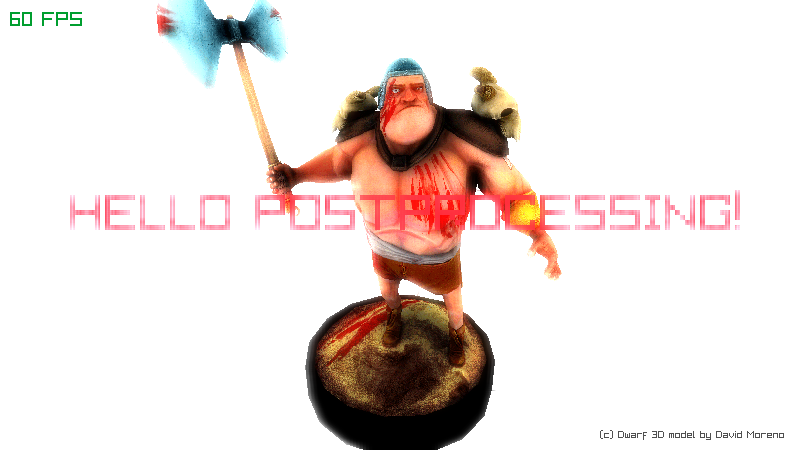
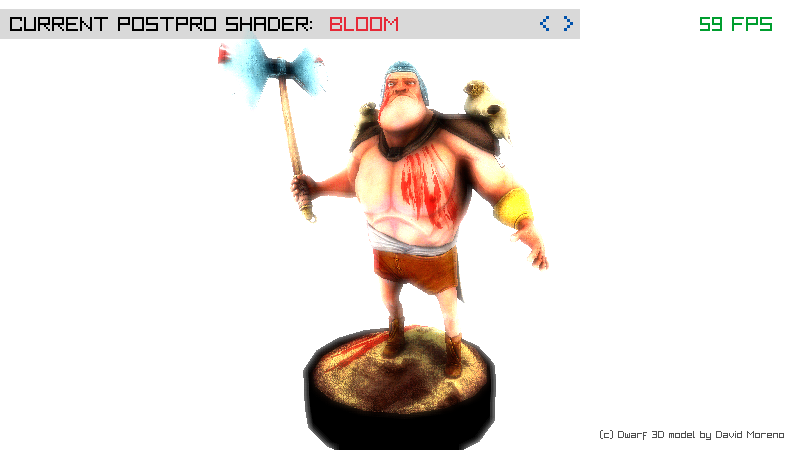
Some reviews for RPI

Changed region(s): [[0.0, 0.0, 0.9375, 1.0], [0.875, 0.0311, 0.9688, 0.0933]]

diff --git a/docs/examples/src/shaders/shaders_postprocessing.c b/docs/examples/src/shaders/shaders_postprocessing.c
@@ -18,6 +18,48 @@
 
 #include "raylib.h"
 
+#if defined(PLATFORM_DESKTOP)
+    #define GLSL_VERSION            330
+    #define DEFAULT_VERTEX_SHADER   "resources/shaders/glsl330/base.vs"
+#else   // PLATFORM_RPI, PLATFORM_ANDROID, PLATFORM_WEB
+    #define GLSL_VERSION            100
+    #define DEFAULT_VERTEX_SHADER   "resources/shaders/glsl100/base.vs"
+#endif
+
+#define MAX_POSTPRO_SHADERS         12
+
+typedef enum {
+    FX_GRAYSCALE = 0,
+    FX_POSTERIZATION,
+    FX_DREAM_VISION,
+    FX_PIXELIZER,
+    FX_CROSS_HATCHING,
+    FX_CROSS_STITCHING,
+    FX_PREDATOR_VIEW,
+    FX_SCANLINES,
+    FX_FISHEYE,
+    FX_SOBEL,
+    FX_BLOOM,
+    FX_BLUR,
+    //FX_FXAA
+} PostproShader;
+
+static const char *postproShaderText[] = {
+    "GRAYSCALE",
+    "POSTERIZATION",
+    "DREAM_VISION",
+    "PIXELIZER",
+    "CROSS_HATCHING",
+    "CROSS_STITCHING",
+    "PREDATOR_VIEW",
+    "SCANLINES",
+    "FISHEYE",
+    "SOBEL",
+    "BLOOM",
+    "BLUR",
+    //"FXAA"
+};
+
 int main()
 {
     // Initialization
@@ -38,8 +80,25 @@ int main()
 
     Vector3 position = { 0.0f, 0.0f, 0.0f };                                // Set model position
     
-    Shader shader = LoadShader("resources/shaders/glsl330/base.vs", 
-                               "resources/shaders/glsl330/bloom.fs");       // Load postpro shader
+    // Load all postpro shaders
+    // NOTE 1: All postpro shader use the base vertex shader (DEFAULT_VERTEX_SHADER)
+    // NOTE 2: We load the correct shader depending on GLSL version
+    Shader shaders[MAX_POSTPRO_SHADERS];
+    
+    shaders[FX_GRAYSCALE] = LoadShader(DEFAULT_VERTEX_SHADER, FormatText("resources/shaders/glsl%i/grayscale.fs", GLSL_VERSION));
+    shaders[FX_POSTERIZATION] = LoadShader(DEFAULT_VERTEX_SHADER, FormatText("resources/shaders/glsl%i/posterization.fs", GLSL_VERSION));
+    shaders[FX_DREAM_VISION] = LoadShader(DEFAULT_VERTEX_SHADER, FormatText("resources/shaders/glsl%i/dream_vision.fs", GLSL_VERSION));
+    shaders[FX_PIXELIZER] = LoadShader(DEFAULT_VERTEX_SHADER, FormatText("resources/shaders/glsl%i/pixelizer.fs", GLSL_VERSION));
+    shaders[FX_CROSS_HATCHING] = LoadShader(DEFAULT_VERTEX_SHADER, FormatText("resources/shaders/glsl%i/cross_hatching.fs", GLSL_VERSION));
+    shaders[FX_CROSS_STITCHING] = LoadShader(DEFAULT_VERTEX_SHADER, FormatText("resources/shaders/glsl%i/cross_stitching.fs", GLSL_VERSION));
+    shaders[FX_PREDATOR_VIEW] = LoadShader(DEFAULT_VERTEX_SHADER, FormatText("resources/shaders/glsl%i/predator.fs", GLSL_VERSION));
+    shaders[FX_SCANLINES] = LoadShader(DEFAULT_VERTEX_SHADER, FormatText("resources/shaders/glsl%i/scanlines.fs", GLSL_VERSION));
+    shaders[FX_FISHEYE] = LoadShader(DEFAULT_VERTEX_SHADER, FormatText("resources/shaders/glsl%i/fisheye.fs", GLSL_VERSION));
+    shaders[FX_SOBEL] = LoadShader(DEFAULT_VERTEX_SHADER, FormatText("resources/shaders/glsl%i/sobel.fs", GLSL_VERSION));
+    shaders[FX_BLOOM] = LoadShader(DEFAULT_VERTEX_SHADER, FormatText("resources/shaders/glsl%i/bloom.fs", GLSL_VERSION));
+    shaders[FX_BLUR] = LoadShader(DEFAULT_VERTEX_SHADER, FormatText("resources/shaders/glsl%i/blur.fs", GLSL_VERSION));
+    
+    int currentShader = FX_GRAYSCALE;
 
     // Create a RenderTexture2D to be used for render to texture
     RenderTexture2D target = LoadRenderTexture(screenWidth, screenHeight);
@@ -56,6 +115,12 @@ int main()
         // Update
         //----------------------------------------------------------------------------------
         UpdateCamera(&camera);              // Update camera
+        
+        if (IsKeyPressed(KEY_RIGHT)) currentShader++;
+        else if (IsKeyPressed(KEY_LEFT)) currentShader--;
+        
+        if (currentShader >= MAX_POSTPRO_SHADERS) currentShader = 0;
+        else if (currentShader < 0) currentShader = MAX_POSTPRO_SHADERS - 1;
         //----------------------------------------------------------------------------------
 
         // Draw
@@ -73,21 +138,26 @@ int main()
                     DrawGrid(10, 1.0f);     // Draw a grid
 
                 End3dMode();
-          
-                DrawText("HELLO POSTPROCESSING!", 70, 190, 50, RED);
                 
             EndTextureMode();           // End drawing to texture (now we have a texture available for next passes)
             
-            BeginShaderMode(shader);
+            // Render previously generated texture using selected postpro shader
+            BeginShaderMode(shaders[currentShader]);
             
                 // NOTE: Render texture must be y-flipped due to default OpenGL coordinates (left-bottom)
                 DrawTextureRec(target.texture, (Rectangle){ 0, 0, target.texture.width, -target.texture.height }, (Vector2){ 0, 0 }, WHITE);
                 
             EndShaderMode();
             
+            DrawRectangle(0, 9, 580, 30, Fade(LIGHTGRAY, 0.7f));
+            
             DrawText("(c) Dwarf 3D model by David Moreno", screenWidth - 200, screenHeight - 20, 10, DARKGRAY);
-
-            DrawFPS(10, 10);
+            
+            DrawText("CURRENT POSTPRO SHADER:", 10, 15, 20, BLACK);
+            DrawText(postproShaderText[currentShader], 330, 15, 20, RED);
+            DrawText("< >", 540, 10, 30, DARKBLUE);
+            
+            DrawFPS(700, 15);
 
         EndDrawing();
         //----------------------------------------------------------------------------------
@@ -95,7 +165,10 @@ int main()
 
     // De-Initialization
     //--------------------------------------------------------------------------------------
-    UnloadShader(shader);           // Unload shader
+    
+    // Unload all postpro shaders
+    for (int i = 0; i < MAX_POSTPRO_SHADERS; i++) UnloadShader(shaders[i]);
+    
     UnloadTexture(texture);         // Unload texture
     UnloadModel(dwarf);             // Unload model
     UnloadRenderTexture(target);    // Unload render texture

diff --git a/examples/models/models_mesh_picking.c b/examples/models/models_mesh_picking.c
@@ -89,7 +89,7 @@ int main()
             cursorColor = PURPLE;
             hitObjectName = "Triangle";
 
-            bary = VectorBarycenter(nearestHit.hitPosition, ta, tb, tc);
+            bary = VectorBarycenter(nearestHit.position, ta, tb, tc);
             hitTriangle = true;
         } 
         else hitTriangle = false;
@@ -136,15 +136,15 @@ int main()
                 // If we hit something, draw the cursor at the hit point
                 if (nearestHit.hit) 
                 {
-                    DrawCube(nearestHit.hitPosition, 0.3, 0.3, 0.3, cursorColor);
-                    DrawCubeWires(nearestHit.hitPosition, 0.3, 0.3, 0.3, RED);
+                    DrawCube(nearestHit.position, 0.3, 0.3, 0.3, cursorColor);
+                    DrawCubeWires(nearestHit.position, 0.3, 0.3, 0.3, RED);
 
                     Vector3 normalEnd;
-                    normalEnd.x = nearestHit.hitPosition.x + nearestHit.hitNormal.x;
-                    normalEnd.y = nearestHit.hitPosition.y + nearestHit.hitNormal.y;
-                    normalEnd.z = nearestHit.hitPosition.z + nearestHit.hitNormal.z;
+                    normalEnd.x = nearestHit.position.x + nearestHit.normal.x;
+                    normalEnd.y = nearestHit.position.y + nearestHit.normal.y;
+                    normalEnd.z = nearestHit.position.z + nearestHit.normal.z;
                     
-                    DrawLine3D(nearestHit.hitPosition, normalEnd, RED);
+                    DrawLine3D(nearestHit.position, normalEnd, RED);
                 }
 
                 DrawRay(ray, MAROON);
@@ -163,14 +163,14 @@ int main()
                 DrawText(FormatText("Distance: %3.2f", nearestHit.distance), 10, ypos, 10, BLACK);
                 
                 DrawText(FormatText("Hit Pos: %3.2f %3.2f %3.2f", 
-                                    nearestHit.hitPosition.x, 
-                                    nearestHit.hitPosition.y, 
-                                    nearestHit.hitPosition.z), 10, ypos + 15, 10, BLACK);
+                                    nearestHit.position.x, 
+                                    nearestHit.position.y, 
+                                    nearestHit.position.z), 10, ypos + 15, 10, BLACK);
                                     
                 DrawText(FormatText("Hit Norm: %3.2f %3.2f %3.2f", 
-                                    nearestHit.hitNormal.x, 
-                                    nearestHit.hitNormal.y, 
-                                    nearestHit.hitNormal.z), 10, ypos + 30, 10, BLACK);
+                                    nearestHit.normal.x, 
+                                    nearestHit.normal.y, 
+                                    nearestHit.normal.z), 10, ypos + 30, 10, BLACK);
 
                 if (hitTriangle) DrawText(FormatText("Barycenter: %3.2f %3.2f %3.2f",  bary.x, bary.y, bary.z), 10, ypos + 45, 10, BLACK);
             }

diff --git a/examples/text/text_ttf_loading.c b/examples/text/text_ttf_loading.c
@@ -38,8 +38,11 @@ int main()
     SetTextureFilter(font.texture, FILTER_POINT);
     int currentFontFilter = 0;      // FILTER_POINT
     
+    // NOTE: Drag and drop support only available for desktop platforms: Windows, Linux, OSX
+#if defined(PLATFORM_DESKTOP)
     int count = 0;
     char **droppedFiles;
+#endif
     
     SetTargetFPS(60);
     //--------------------------------------------------------------------------------------
@@ -74,6 +77,7 @@ int main()
         if (IsKeyDown(KEY_LEFT)) fontPosition.x -= 10;
         else if (IsKeyDown(KEY_RIGHT)) fontPosition.x += 10;
         
+#if defined(PLATFORM_DESKTOP)
         // Load a dropped TTF file dynamically (at current fontSize)
         if (IsFileDropped())
         {
@@ -86,6 +90,7 @@ int main()
                 ClearDroppedFiles();
             }
         }
+#endif
         //----------------------------------------------------------------------------------
         
         // Draw
@@ -119,10 +124,11 @@ int main()
 
     // De-Initialization
     //--------------------------------------------------------------------------------------
+#if defined(PLATFORM_DESKTOP)
+    ClearDroppedFiles();        // Clear internal buffers
+#endif
     UnloadSpriteFont(font);     // SpriteFont unloading
     
-    ClearDroppedFiles();        // Clear internal buffers
-
     CloseWindow();              // Close window and OpenGL context
     //--------------------------------------------------------------------------------------
     

diff --git a/src/physac.h b/src/physac.h
@@ -246,12 +246,14 @@ PHYSACDEF void ClosePhysics(void);                                              
 #include <stdlib.h>                 // Required for: malloc(), free(), srand(), rand()
 #include <math.h>                   // Required for: cosf(), sinf(), fabs(), sqrtf()
 
+#include "raymath.h"                // Required for: Vector2Add(), Vector2Subtract()
+
 #if defined(_WIN32)
     // Functions required to query time on Windows
     int __stdcall QueryPerformanceCounter(unsigned long long int *lpPerformanceCount);
     int __stdcall QueryPerformanceFrequency(unsigned long long int *lpFrequency);
 #elif defined(__linux__) || defined(PLATFORM_WEB)
-    #define _DEFAULT_SOURCE         // Enables BSD function definitions and C99 POSIX compliance
+    //#define _DEFAULT_SOURCE         // Enables BSD function definitions and C99 POSIX compliance
     #include <sys/time.h>           // Required for: timespec
     #include <time.h>               // Required for: clock_gettime()
     #include <stdint.h>
